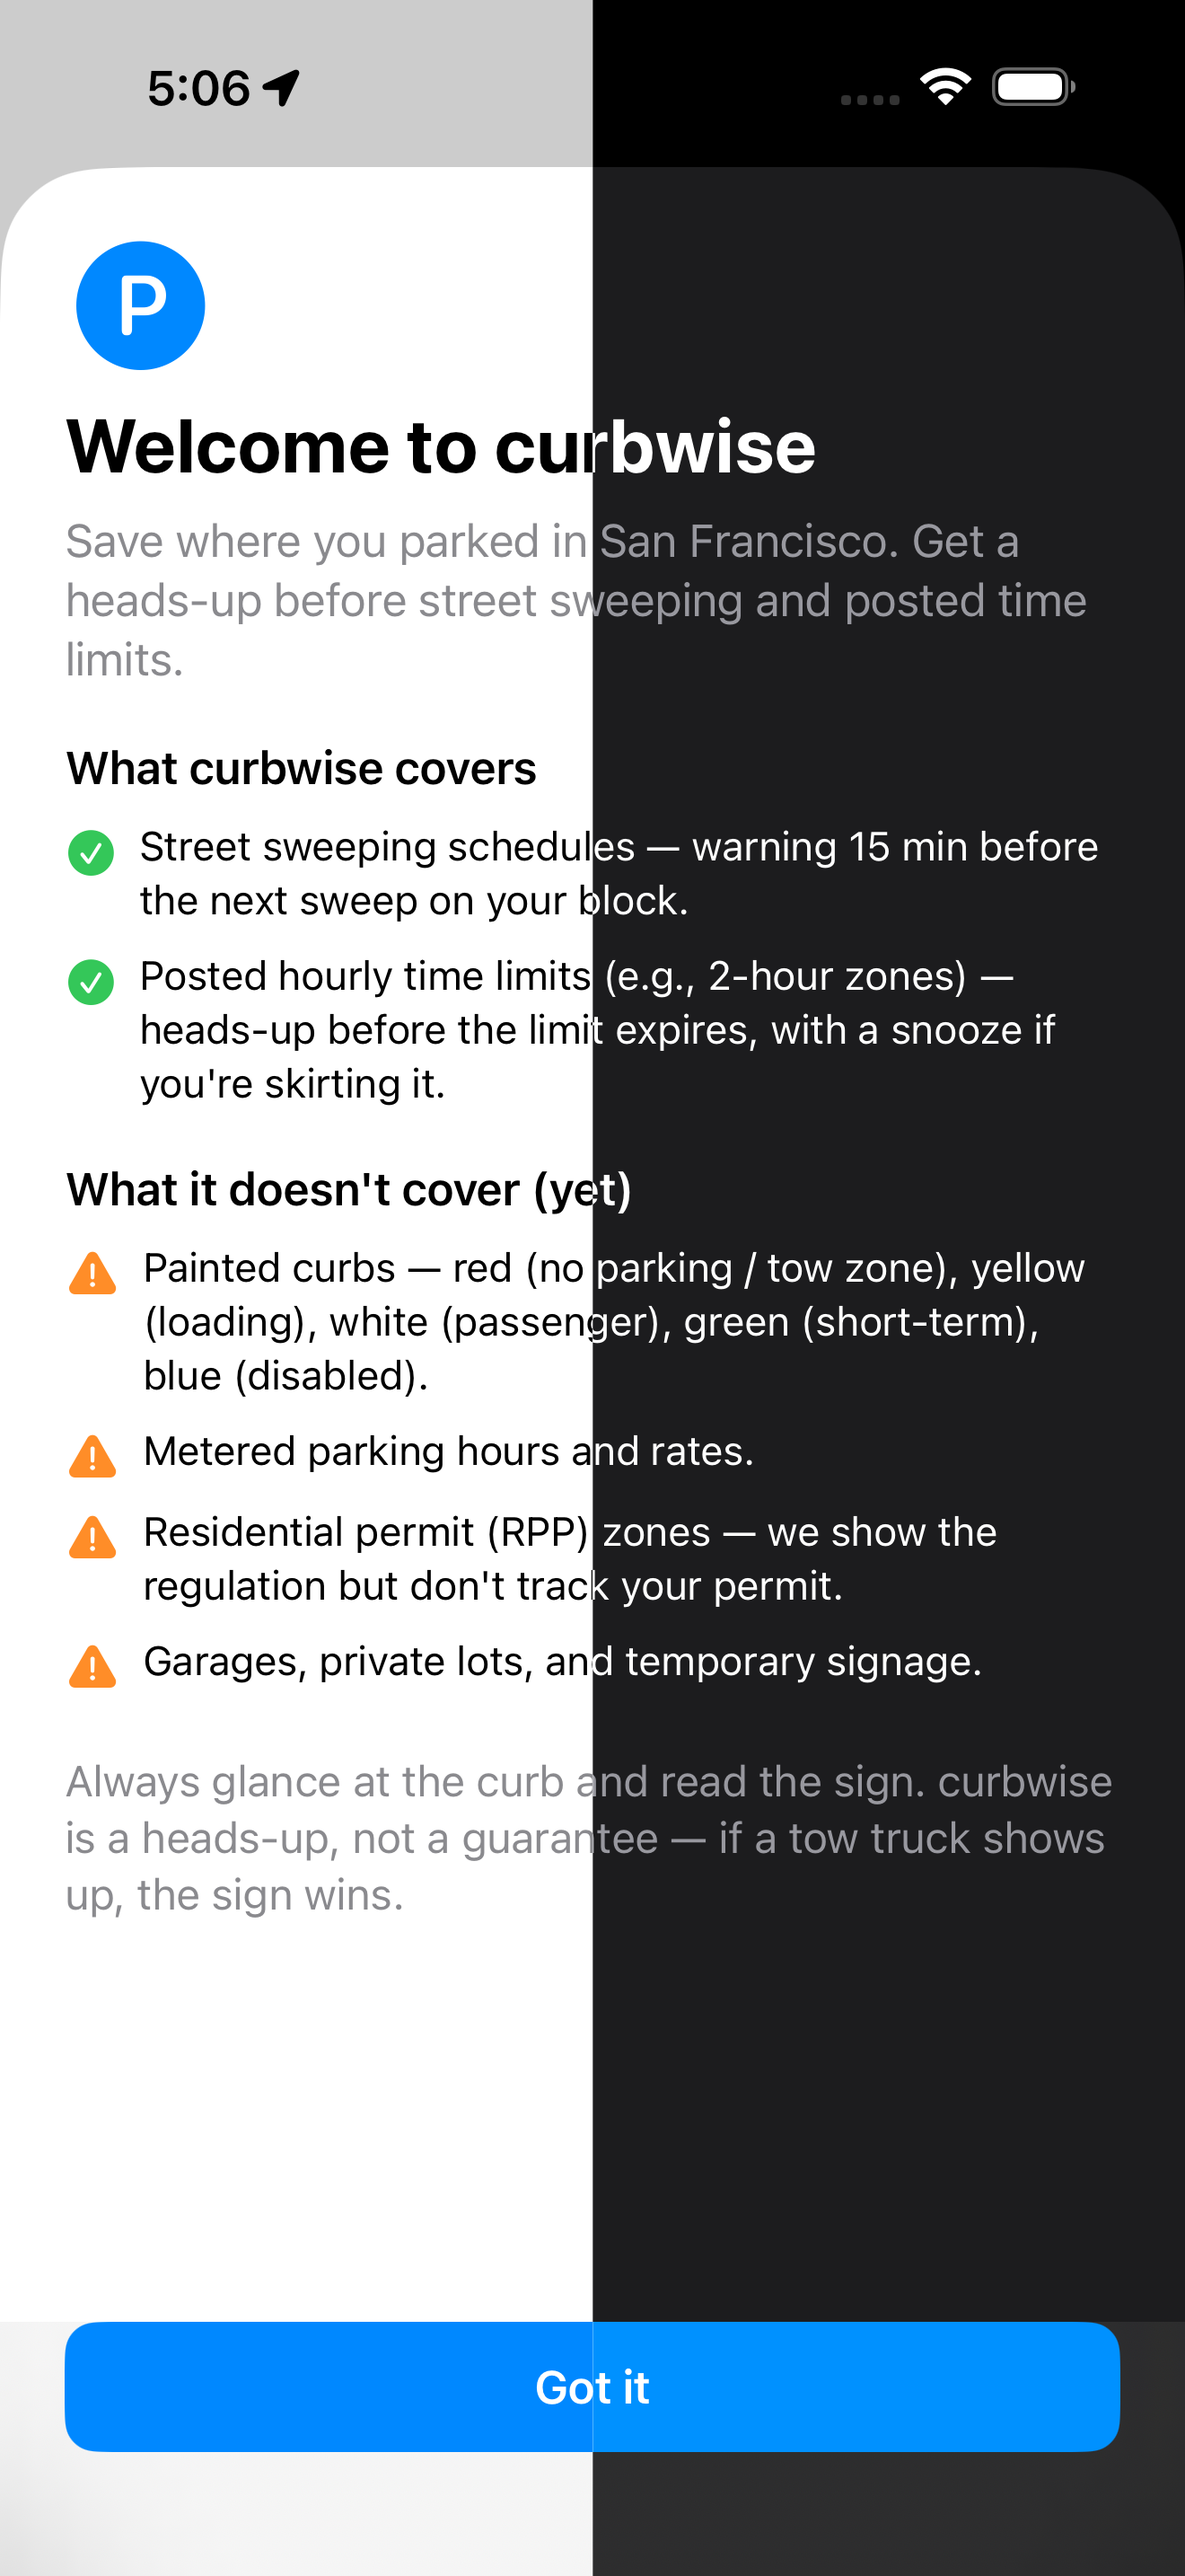
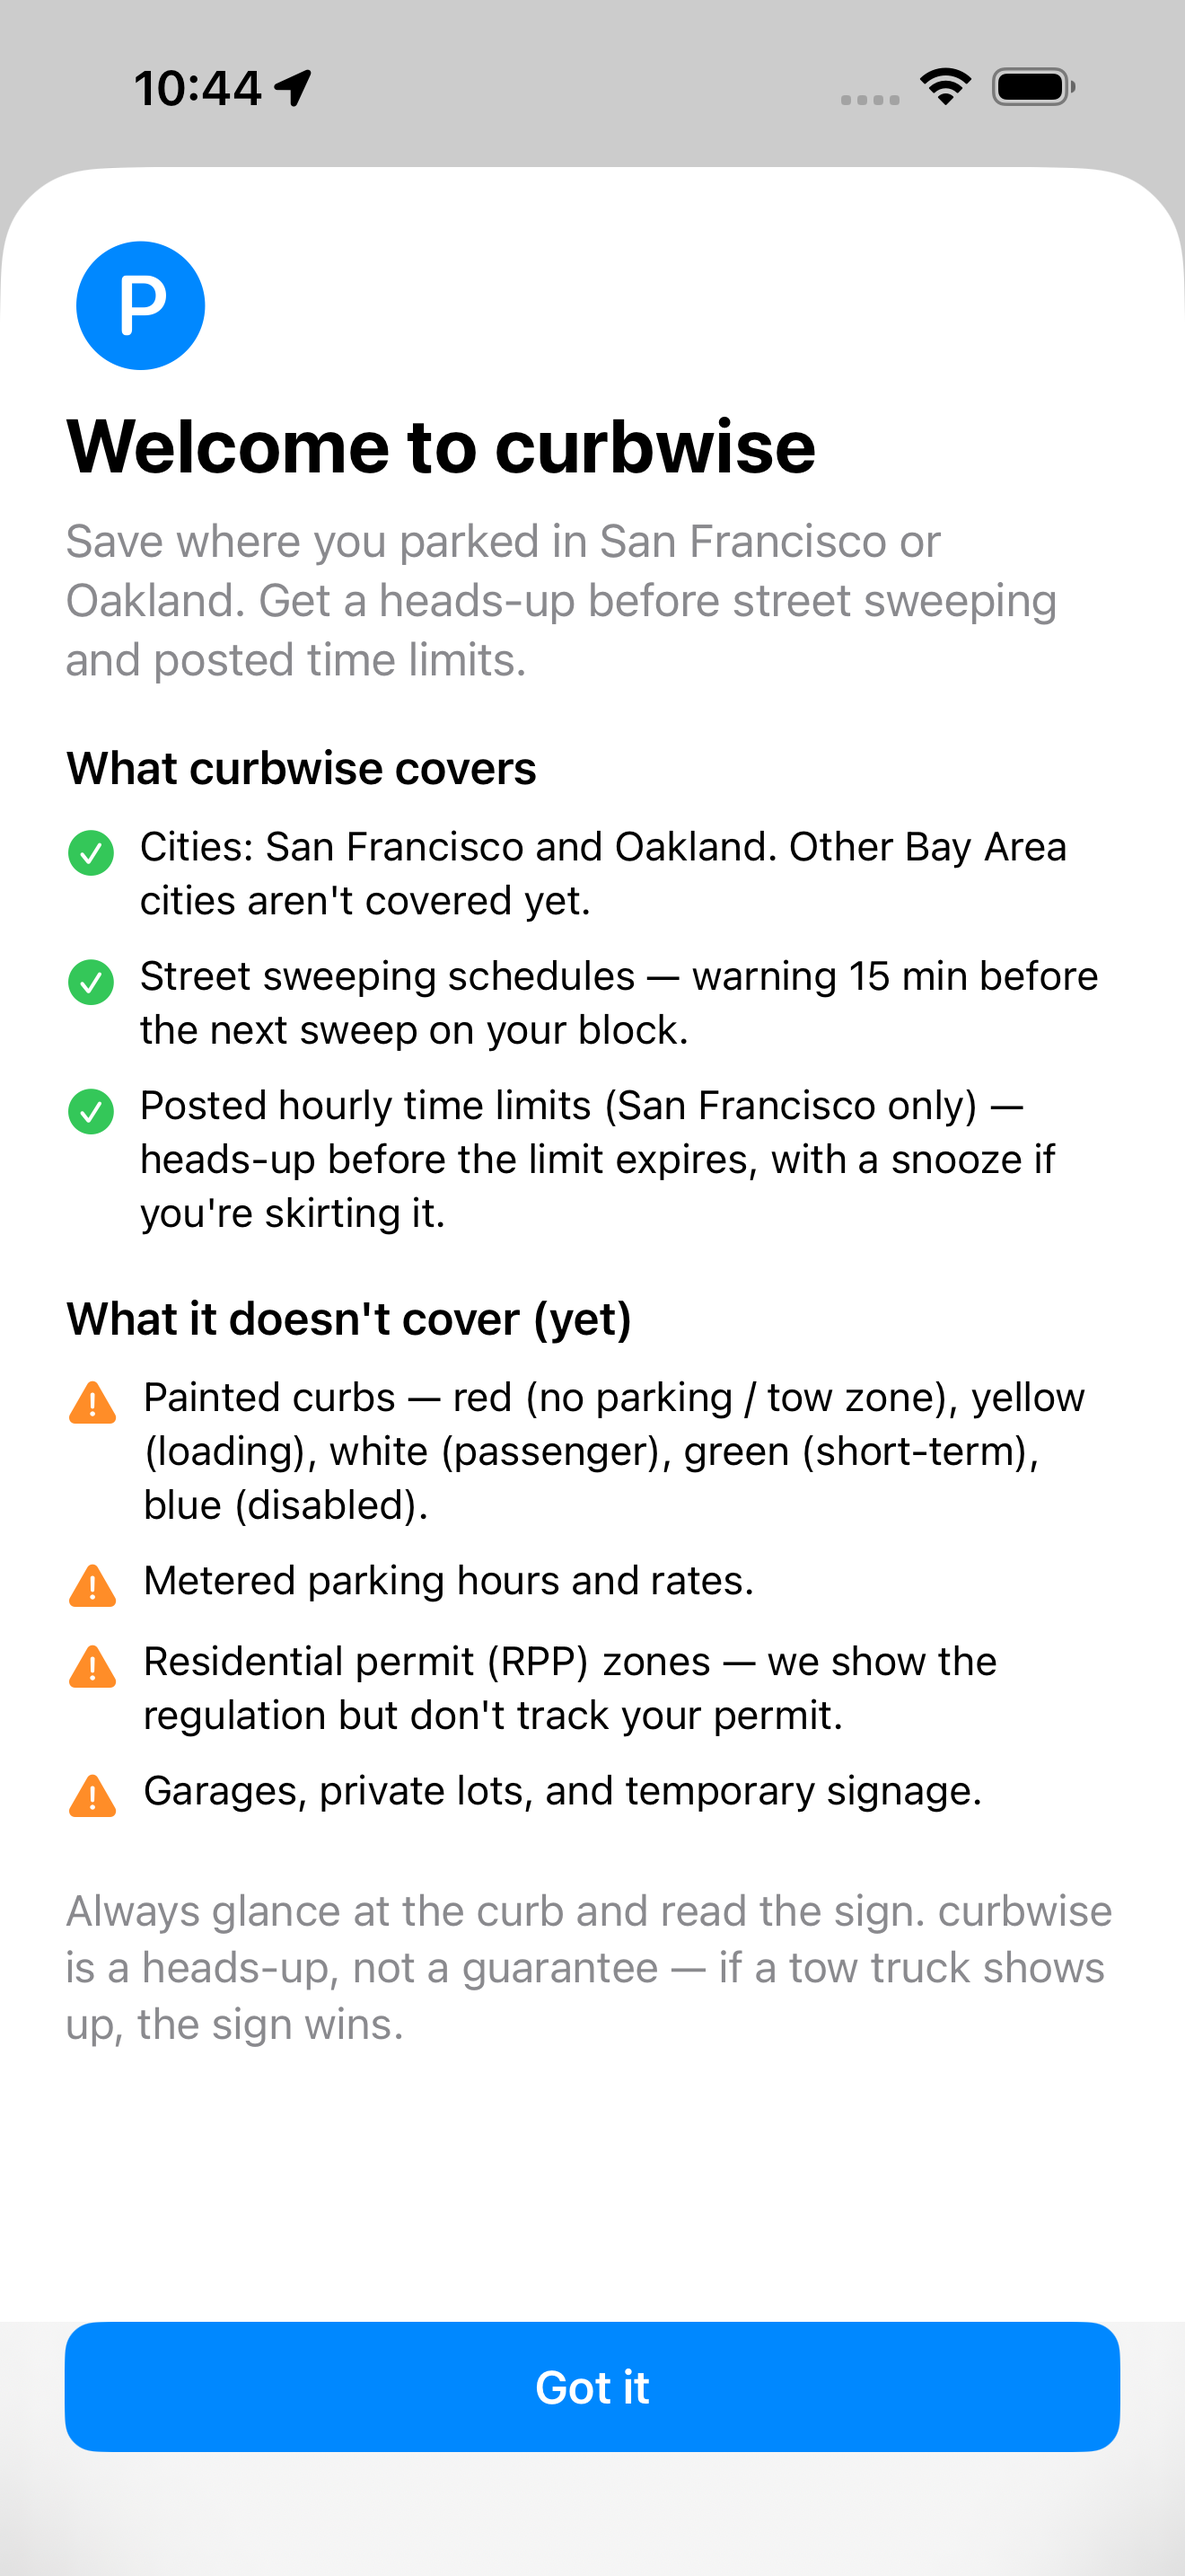
curbwise marketing: replace half-and-half with Light/Dark toggle
The half-and-half composites looked weird now that we've added
more shots — the left-light / right-dark trick worked for a few
hero images but breaks down across 7+ shots, and the seam
through the middle of multi-car cards and find-a-spot lists is
distracting rather than designed.

Replace with a proper Light/Dark toggle above the screenshots
rail. Visitors click to switch every shot at once. Initial mode
follows the visitor's OS preference via prefers-color-scheme,
so dark-mode users see dark screenshots immediately. Falls back
to light if no media query support.

All seven curated rail shots get an `_dark` companion file
alongside the existing light version. Light versions are also
regenerated (the previous "light" was actually the left half of
a composite — now they're full screenshots). Watch shots stay
single-mode since the watch face is always dark.

The toggle is implemented in vanilla JS — no framework, no build
step, ~20 lines including the prefers-color-scheme detection.
Images carry both source paths in data-light / data-dark
attributes; the toggle swaps the src on click.

diff --git a/curbwise/index.html b/curbwise/index.html
@@ -293,6 +293,33 @@
             display: block;
         }
 
+        .appearance-toggle {
+            display: inline-flex;
+            gap: 0;
+            padding: 4px;
+            background: var(--surface);
+            border: 1px solid var(--border);
+            border-radius: 100px;
+            margin-bottom: 16px;
+        }
+
+        .appearance-toggle button {
+            background: transparent;
+            border: 0;
+            color: var(--text-secondary);
+            font-family: inherit;
+            font-size: 0.85em;
+            font-weight: 600;
+            padding: 6px 14px;
+            border-radius: 100px;
+            cursor: pointer;
+        }
+
+        .appearance-toggle button[aria-pressed="true"] {
+            background: var(--accent);
+            color: white;
+        }
+
         @media (max-width: 600px) {
             .container { padding: 40px 16px; }
             section { margin-bottom: 56px; }
@@ -321,33 +348,37 @@
 
         <section>
             <p class="section-title">A look inside</p>
-            <div class="screenshots-scroll">
+            <div class="appearance-toggle" role="group" aria-label="App appearance">
+                <button type="button" data-appearance="light" aria-pressed="true">Light</button>
+                <button type="button" data-appearance="dark" aria-pressed="false">Dark</button>
+            </div>
+            <div class="screenshots-scroll" id="screenshots-rail">
                 <div class="shot">
-                    <img src="screenshots/05_imminent_sweep.png" alt="Saved-spot card showing imminent sweep warning, time-limit countdown, and walk-back distance over a map of the parked block.">
+                    <img data-light="screenshots/05_imminent_sweep.png" data-dark="screenshots/05_imminent_sweep_dark.png" src="screenshots/05_imminent_sweep.png" alt="Saved-spot card showing imminent sweep warning, time-limit countdown, and walk-back distance over a map of the parked block.">
                     <span class="shot-caption">Saved spot — sweep + time-limit countdowns and walk-back distance.</span>
                 </div>
                 <div class="shot">
-                    <img src="screenshots/15_find_spot.png" alt="Ranked list of nearby blockfaces showing how long you can park before the next sweep.">
+                    <img data-light="screenshots/15_find_spot.png" data-dark="screenshots/15_find_spot_dark.png" src="screenshots/15_find_spot.png" alt="Ranked list of nearby blockfaces showing how long you can park before the next sweep.">
                     <span class="shot-caption">Find a spot — ranked list of where to park longest.</span>
                 </div>
                 <div class="shot">
-                    <img src="screenshots/12_multi_car_home.png" alt="Home screen showing two parking spot cards stacked, one per car, each with a vehicle pill in the header.">
+                    <img data-light="screenshots/12_multi_car_home.png" data-dark="screenshots/12_multi_car_home_dark.png" src="screenshots/12_multi_car_home.png" alt="Home screen showing two parking spot cards stacked, one per car, each with a vehicle pill in the header.">
                     <span class="shot-caption">Multi-car — one card per vehicle, color-coded urgency.</span>
                 </div>
                 <div class="shot">
-                    <img src="screenshots/02_picker.png" alt="Block picker sheet listing nearby candidate blockfaces with their sweeping schedules.">
+                    <img data-light="screenshots/02_picker.png" data-dark="screenshots/02_picker_dark.png" src="screenshots/02_picker.png" alt="Block picker sheet listing nearby candidate blockfaces with their sweeping schedules.">
                     <span class="shot-caption">Confirm the block — GPS isn't perfect, so you pick.</span>
                 </div>
                 <div class="shot">
-                    <img src="screenshots/08_widget_medium.png" alt="Home Screen widget showing Next Sweep countdown alongside a small map of the parked block.">
+                    <img data-light="screenshots/08_widget_medium.png" data-dark="screenshots/08_widget_medium_dark.png" src="screenshots/08_widget_medium.png" alt="Home Screen widget showing Next Sweep countdown alongside a small map of the parked block.">
                     <span class="shot-caption">Home Screen widget with the next-sweep countdown and a map.</span>
                 </div>
                 <div class="shot">
-                    <img src="screenshots/10_timelimit_actions.png" alt="Expanded notification banner with Snooze 1 hour and I moved my car action buttons.">
+                    <img data-light="screenshots/10_timelimit_actions.png" data-dark="screenshots/10_timelimit_actions_dark.png" src="screenshots/10_timelimit_actions.png" alt="Expanded notification banner with Snooze 1 hour and I moved my car action buttons.">
                     <span class="shot-caption">Time-limit warning — snooze if you're skirting it.</span>
                 </div>
                 <div class="shot">
-                    <img src="screenshots/00_onboarding.png" alt="First-launch onboarding sheet listing what curbwise covers and what it doesn't.">
+                    <img data-light="screenshots/00_onboarding.png" data-dark="screenshots/00_onboarding_dark.png" src="screenshots/00_onboarding.png" alt="First-launch onboarding sheet listing what curbwise covers and what it doesn't.">
                     <span class="shot-caption">Honest onboarding — what we cover, what we don't.</span>
                 </div>
             </div>
@@ -442,5 +473,33 @@
             <span><a href="privacy">privacy</a> · <a href="support">support</a></span>
         </footer>
     </div>
+    <script>
+        (function () {
+            const toggle = document.querySelector('.appearance-toggle');
+            if (!toggle) return;
+            const buttons = toggle.querySelectorAll('button');
+            const images = document.querySelectorAll('img[data-light][data-dark]');
+
+            function apply(mode) {
+                images.forEach(img => {
+                    const next = img.dataset[mode];
+                    if (next && img.getAttribute('src') !== next) {
+                        img.setAttribute('src', next);
+                    }
+                });
+                buttons.forEach(b => {
+                    b.setAttribute('aria-pressed', b.dataset.appearance === mode ? 'true' : 'false');
+                });
+            }
+
+            // Honor the visitor's OS preference on first load.
+            const prefersDark = window.matchMedia && window.matchMedia('(prefers-color-scheme: dark)').matches;
+            apply(prefersDark ? 'dark' : 'light');
+
+            buttons.forEach(button => {
+                button.addEventListener('click', () => apply(button.dataset.appearance));
+            });
+        })();
+    </script>
 </body>
 </html>
